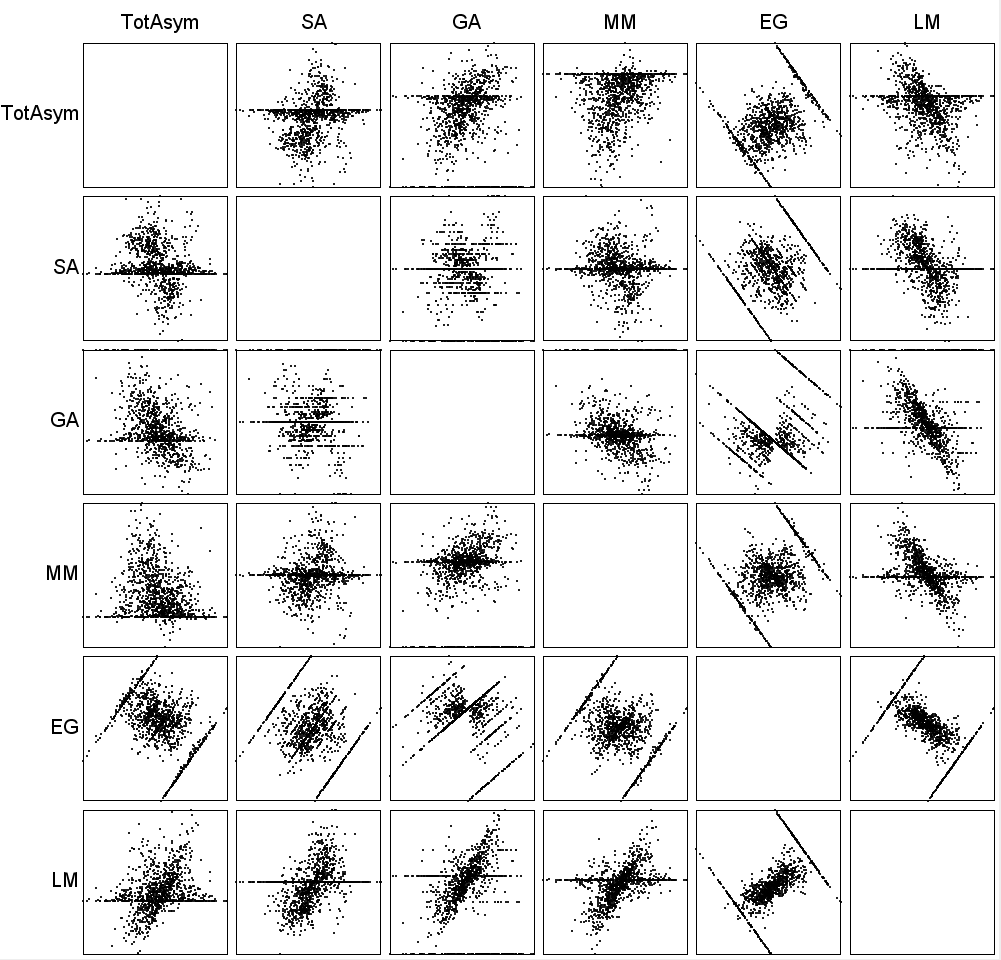
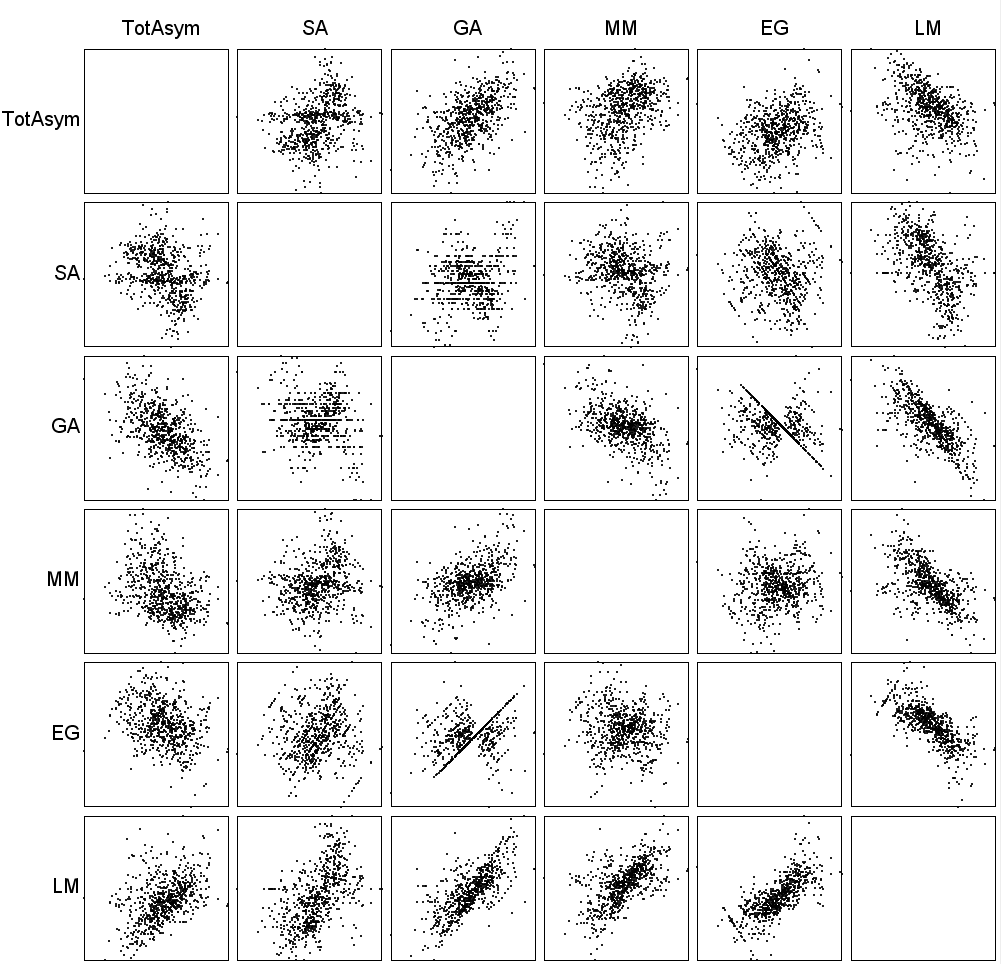
+x=popular vote, y = difference

Changed region(s): [[0.031, 0.0, 1.0, 1.0], [0.0, 0.0938, 0.0929, 0.1562], [0.031, 0.75, 0.0929, 0.7812]]

diff --git a/ELJ/Java code/src/compare_measures/Master.java b/ELJ/Java code/src/compare_measures/Master.java
@@ -23,12 +23,17 @@ import java.nio.file.*;
 public class Master extends JFrame {
 	int size = 1000;
 	
-	static int show = 1;
+	static int show = 2;
 	static int graph_mode = 2;
+	//static String mode2_xaxis = "Vote";
+	static String mode2_xaxis = "Seats";
+	//static String mode2_xaxis = "Spread";
+	//static String mode2_xaxis = "TotAsym";
 	
 	public static double radius = 1.0;
 	
-	public static int min_districts = 1;
+	public static int min_districts = 5;
+	
 
 	Vector<aMeasure> all_measures = new Vector<aMeasure>();
 	Vector<aMeasure> x_measures = new Vector<aMeasure>();
@@ -98,6 +103,7 @@ public class Master extends JFrame {
 			x_measures.add(new MSeats());
 			x_measures.add(new MVoteVariance());
 			x_measures.add(new MNagle());
+			y_measures.add(new MNagle());
 			y_measures.add(new MSpecAsym());
 			y_measures.add(new MGrofman());
 			y_measures.add(new MMeanMinusMedian());
@@ -249,7 +255,7 @@ public class Master extends JFrame {
 			case 2:
 				double ry0 = (d.scores.get(m1.getAbbr())-m1.mean)/m1.sd;
 				double ry1 = (d.scores.get(m2.getAbbr())-m2.mean)/m2.sd;
-				rx = d.scores.get("Vote");
+				rx = d.scores.get(mode2_xaxis);
 				ry = ry0-ry1;
 				break;
 			}
@@ -276,7 +282,7 @@ public class Master extends JFrame {
 			case 2:
 				double ry0 = (d.scores.get(m1.getAbbr())-m1.mean)/m1.sd;
 				double ry1 = (d.scores.get(m2.getAbbr())-m2.mean)/m2.sd;
-				rx = d.scores.get("Vote");
+				rx = d.scores.get(mode2_xaxis);
 				ry = ry0-ry1;
 				break;
 			}
